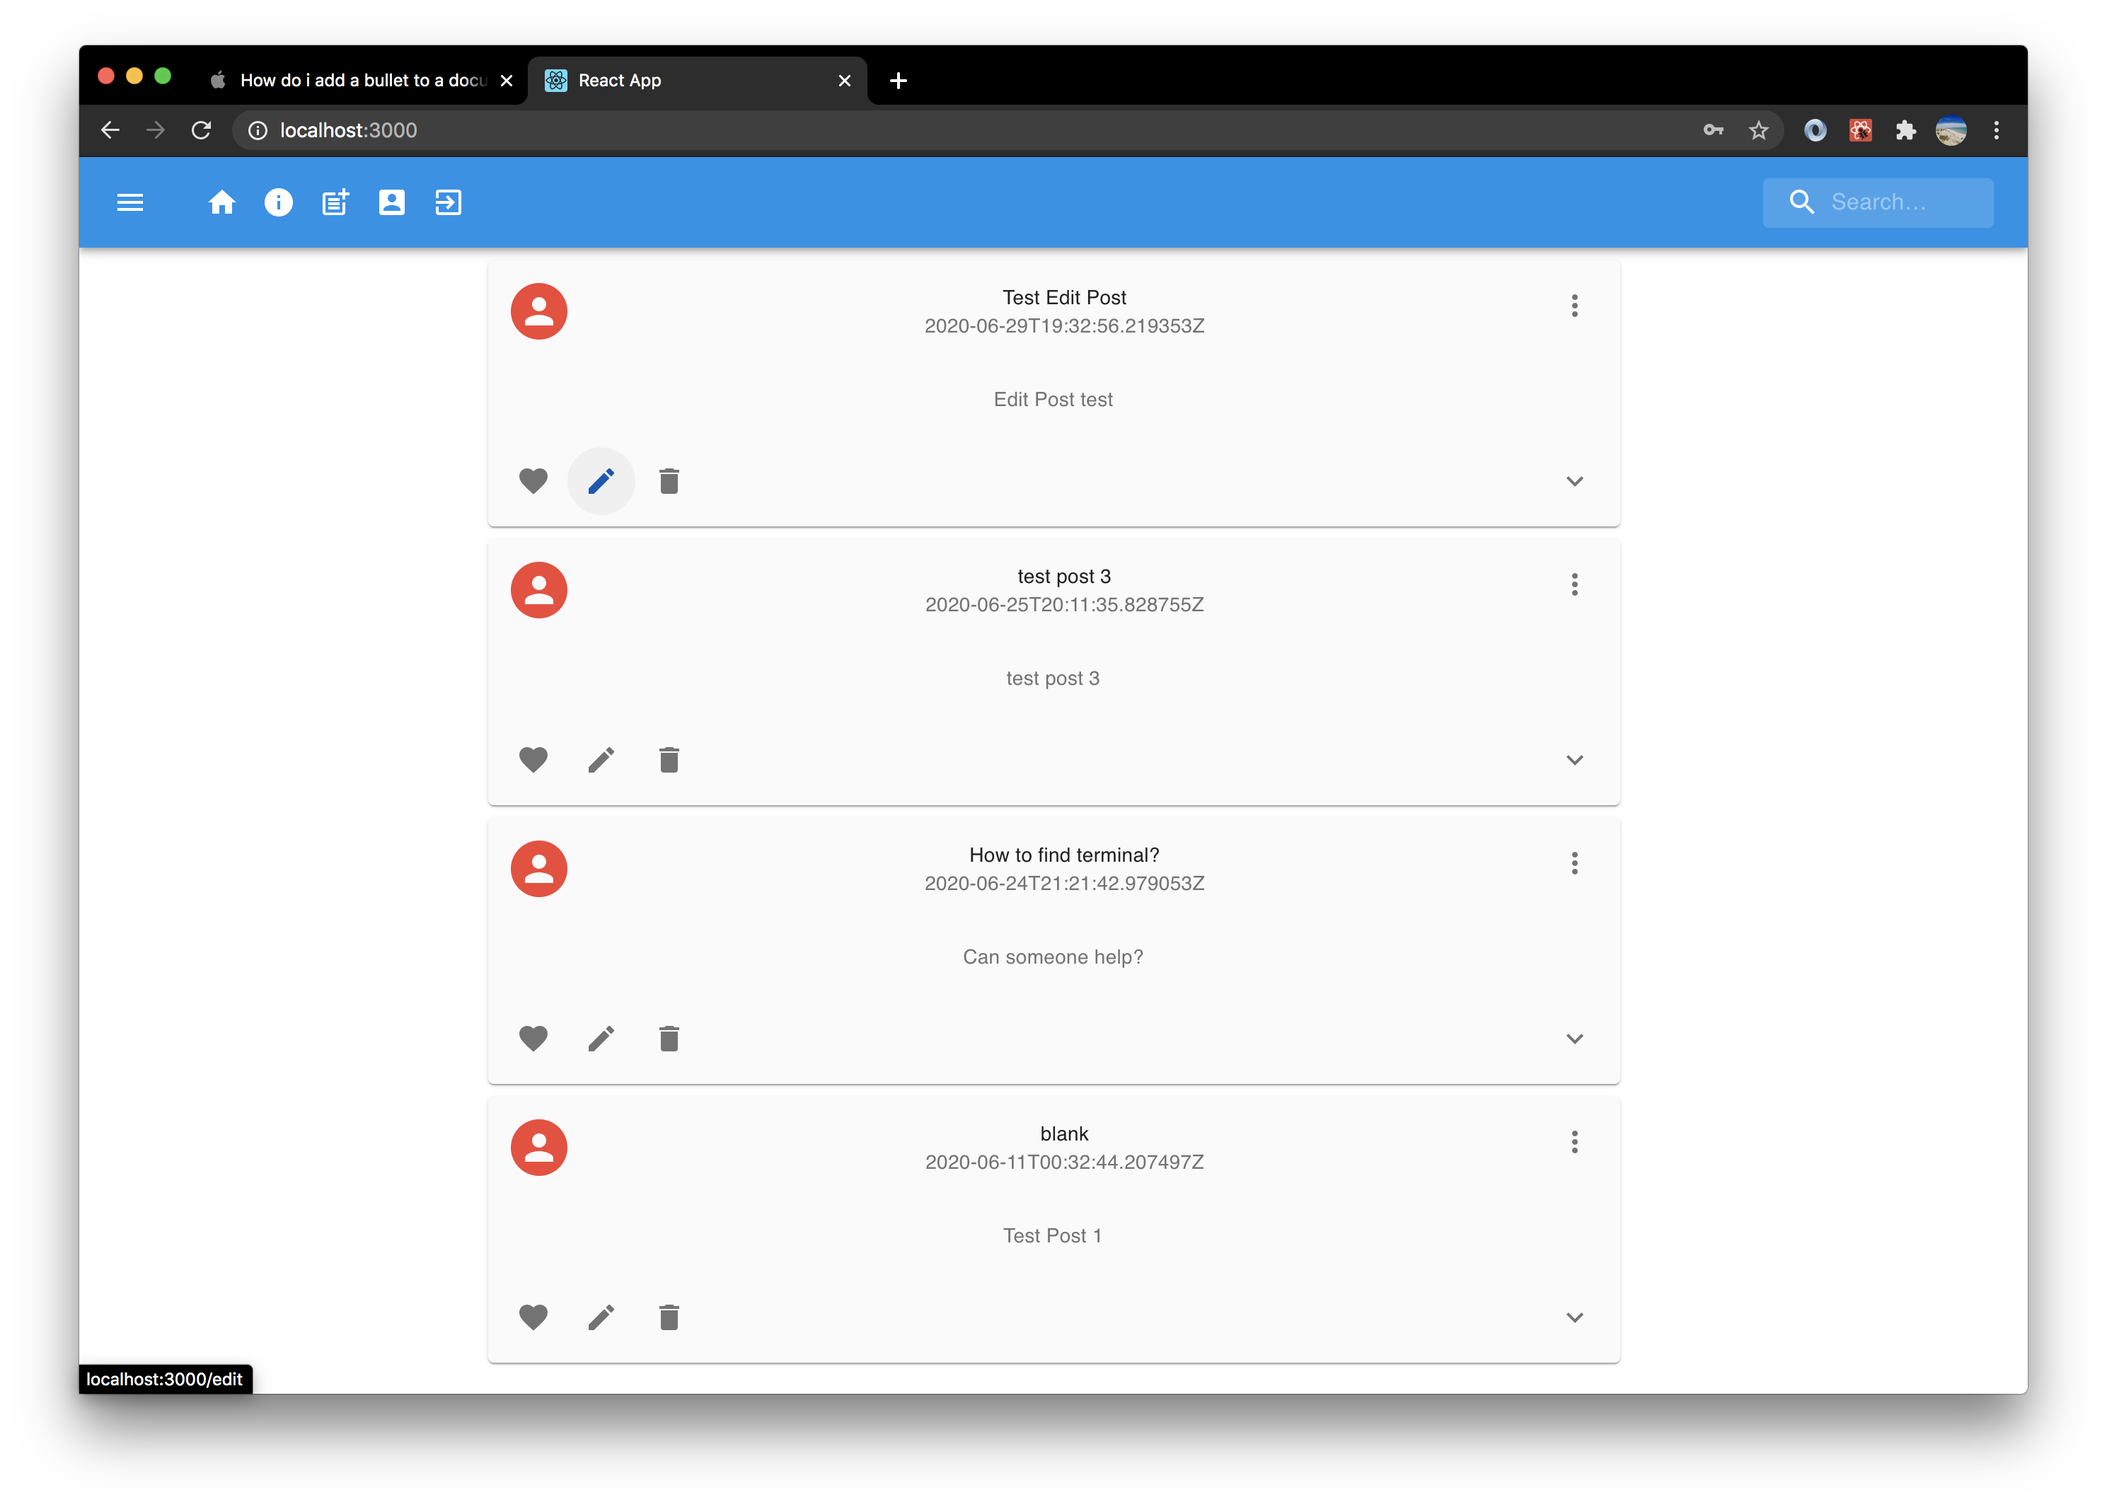
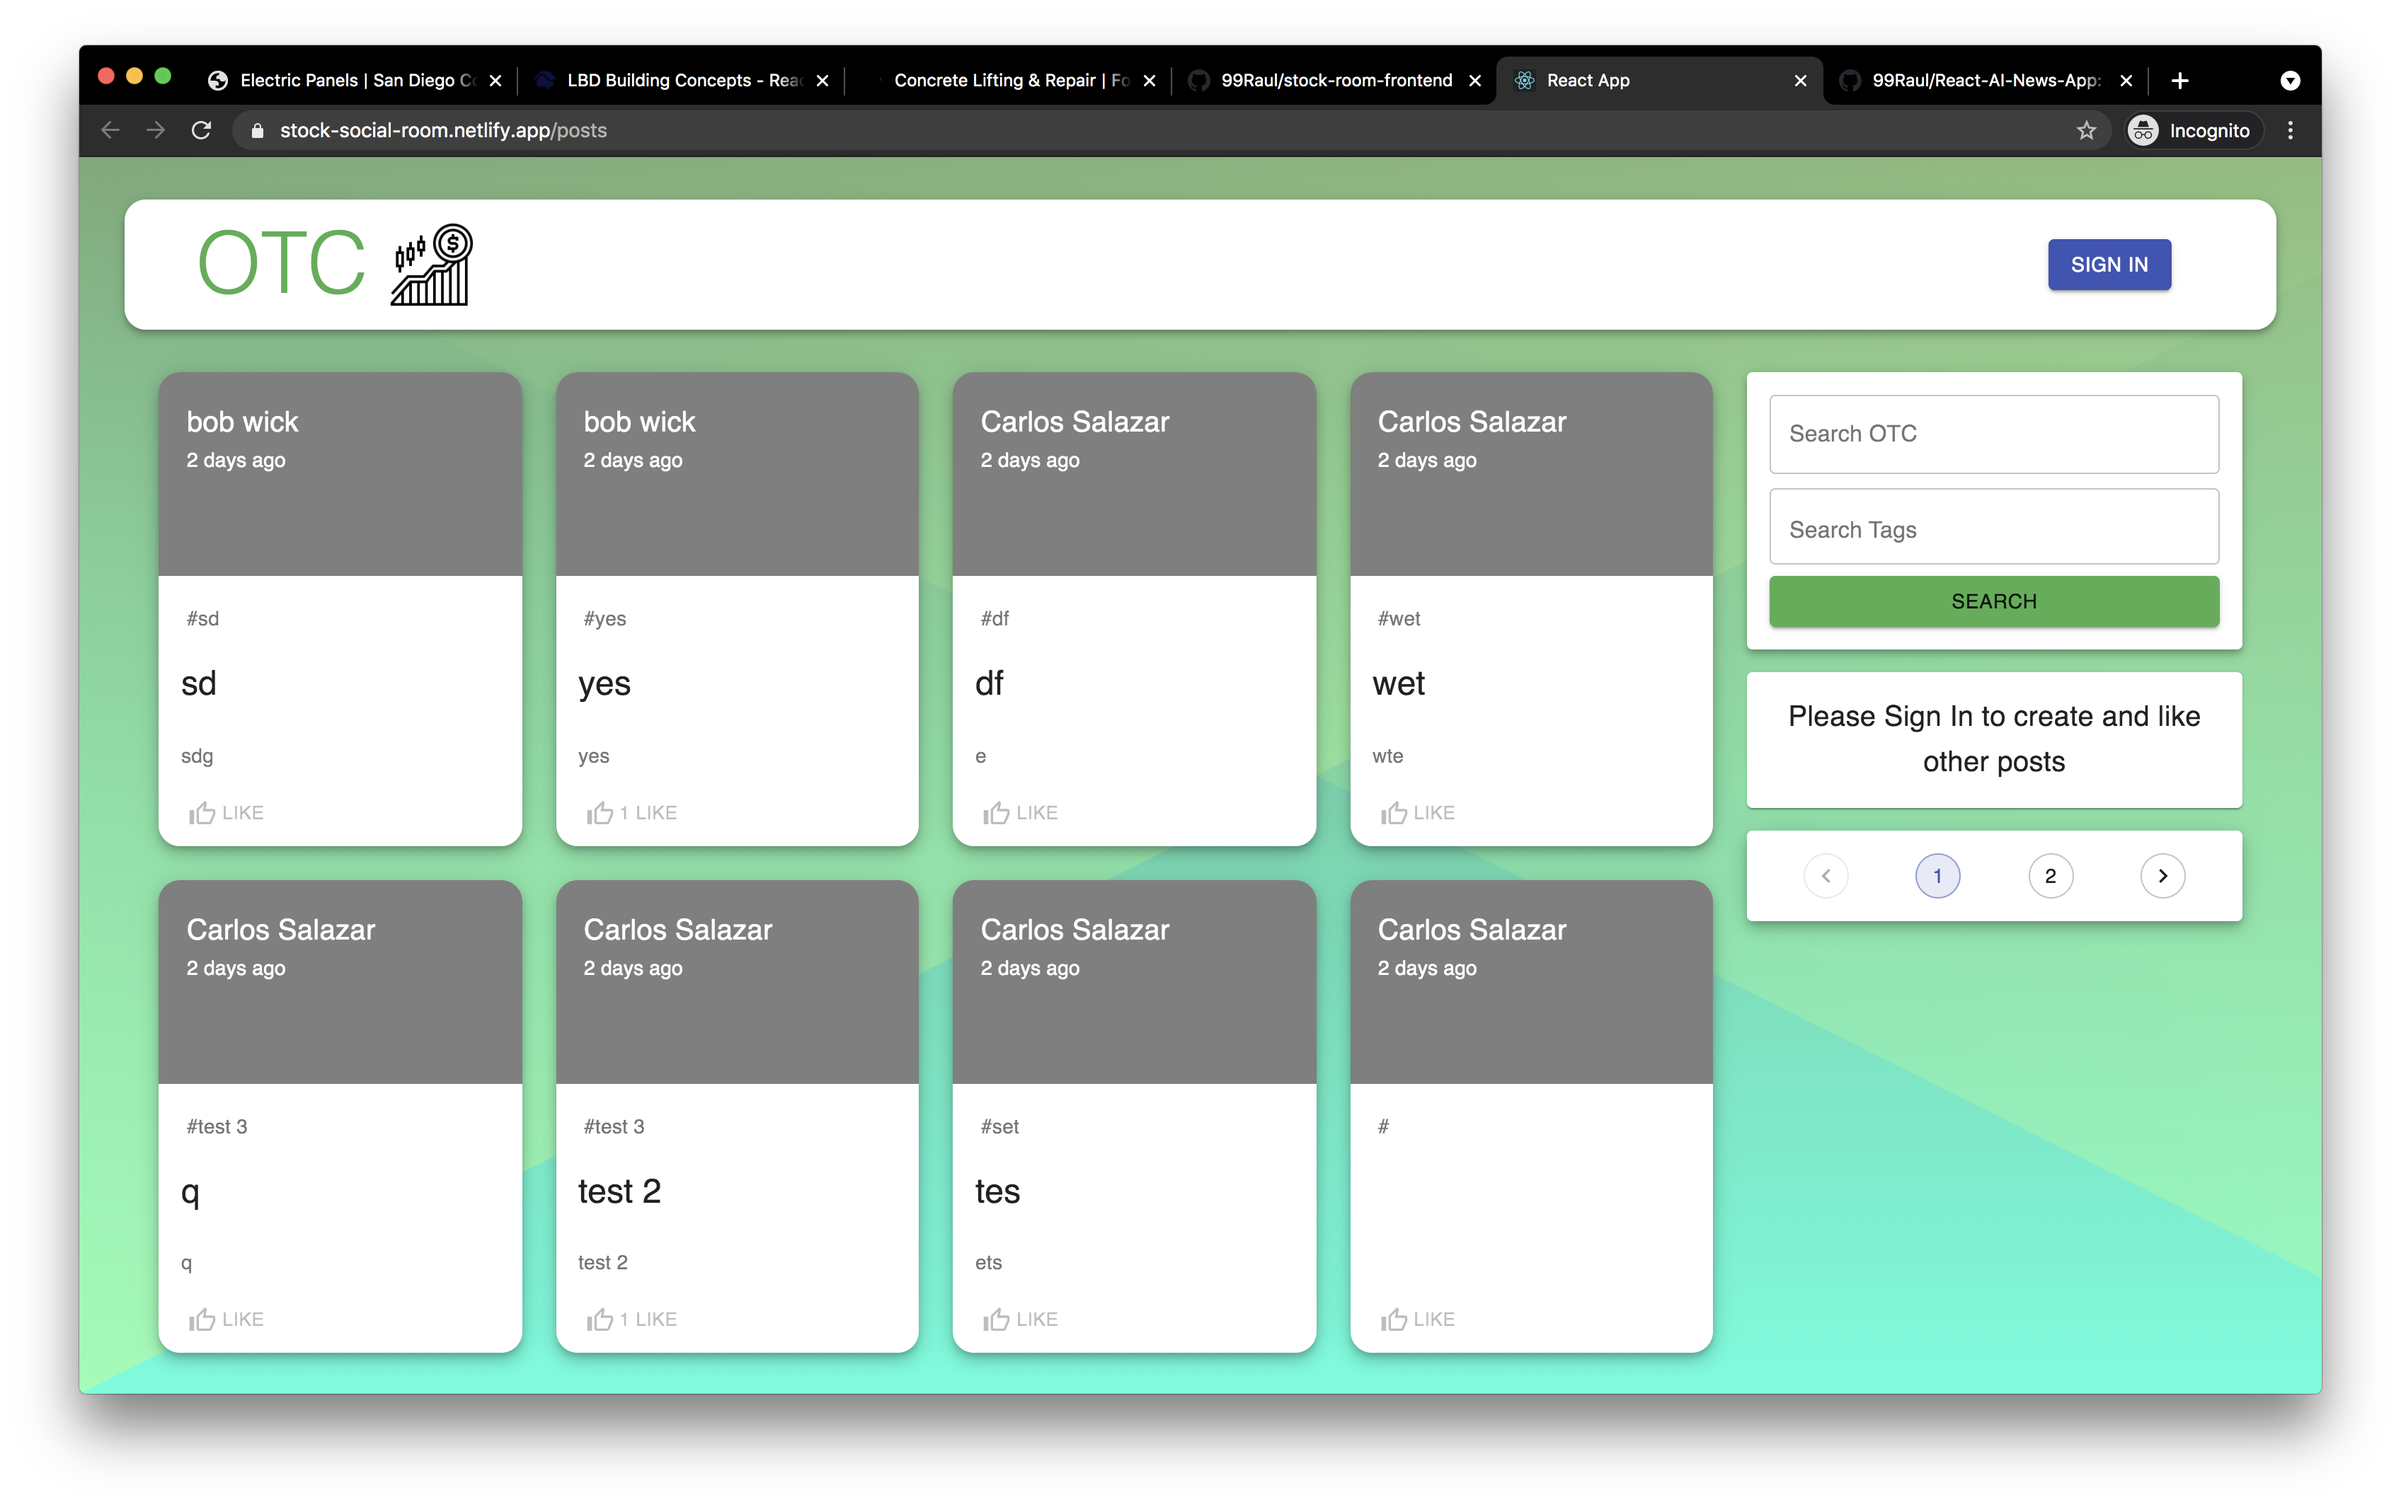
added changes to picture and description

diff --git a/src/utils/resumeData.js b/src/utils/resumeData.js
@@ -141,19 +141,19 @@ export default {
 			],
 		},
 		{
-			tag: 'React/Python',
+			tag: 'React/Redux',
 			image: project3,
-			title: 'React/Python Project 3',
-			caption: 'social dev posts',
+			title: 'React/Redux Project 3',
+			caption: 'social stock room',
 			description:
-				'This app is where developers can log in and ask questions about software engineering topics, and people can comment on the questions.',
+				'This app is where investors can log in and ask questions about over the counter stocks, find stock, and people can comment on the post.',
 			links: [
 				{
-					link: 'https://dev-questions-app.netlify.app/',
+					link: 'https://stock-social-room.netlify.app/posts',
 					icon: <OpenInNewIcon />,
 				},
 				{
-					link: 'https://github.com/99Raul/interview-social-backend',
+					link: 'https://github.com/99Raul/stock-room-frontend',
 					icon: <GitHubIcon />,
 				},
 			],
